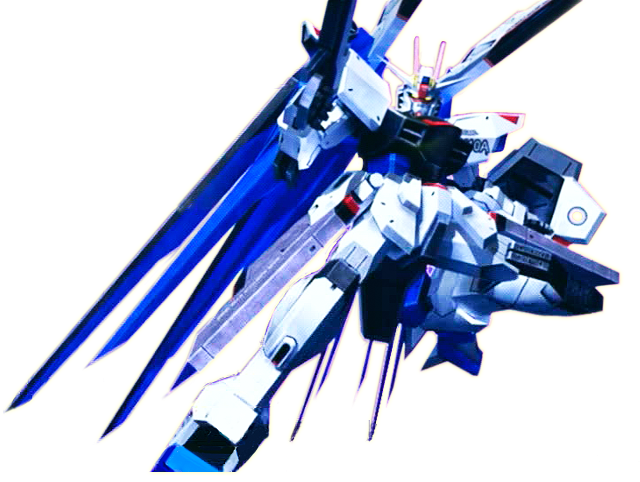
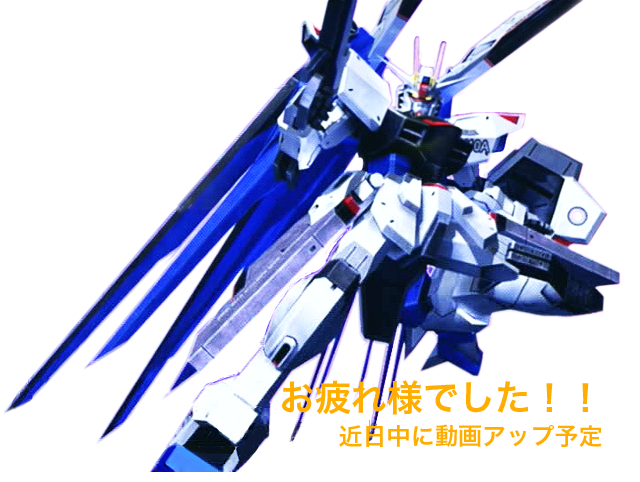
大会御礼、動画アップ予定

diff --git a/app/app/assets/stylesheets/index.scss b/app/app/assets/stylesheets/index.scss
@@ -47,6 +47,13 @@ body.index {
       }
     }
 
+    #result {
+      a {
+        color: $section-title-color;
+        @media screen and (min-width: $pc-min-width){ color: $section-title-color-pc; }
+      }
+    }
+
     #entry #caution {
       color: lime;
       font-weight: bold;

diff --git a/app/app/assets/stylesheets/result_2014.scss b/app/app/assets/stylesheets/result_2014.scss
@@ -1,0 +1,17 @@
+a#teams {
+  font-size: 18;
+}
+
+img#league {
+  display: block;
+  background-color: white;
+  width: 80%;
+  padding: 20px;
+}
+
+img#tournament {
+  display: block;
+  background-color: white;
+  width: 80%;
+  padding: 20px;
+}

diff --git a/app/app/controllers/application_controller.rb b/app/app/controllers/application_controller.rb
@@ -2,17 +2,4 @@ class ApplicationController < ActionController::Base
   # Prevent CSRF attacks by raising an exception.
   # For APIs, you may want to use :null_session instead.
   protect_from_forgery with: :exception
-
-  before_filter :logging_access
-
-  def logging_access
-    return if not Rails.env.production?
-    logger = Fluent::Logger::FluentLogger.new(nil, :host => 'vs-seed.net:8888')
-    logger.post('production.rzjc.access',
-                method: request.method,
-                path: request.fullpath,
-                referer: request.referer,
-                agent: request.user_agent,
-                ip: request.ip)
-  end
 end

diff --git a/app/config/routes.rb b/app/config/routes.rb
@@ -1,6 +1,6 @@
 Rails.application.routes.draw do
   root to: "single#index"
-  %w[index qanda teams solo_players].each do |page|
+  %w[index qanda teams solo_players result_2014 movie_2014].each do |page|
     get "/#{page}", to: "single##{page}"
   end
   %w[submit mediation].each do |page|
